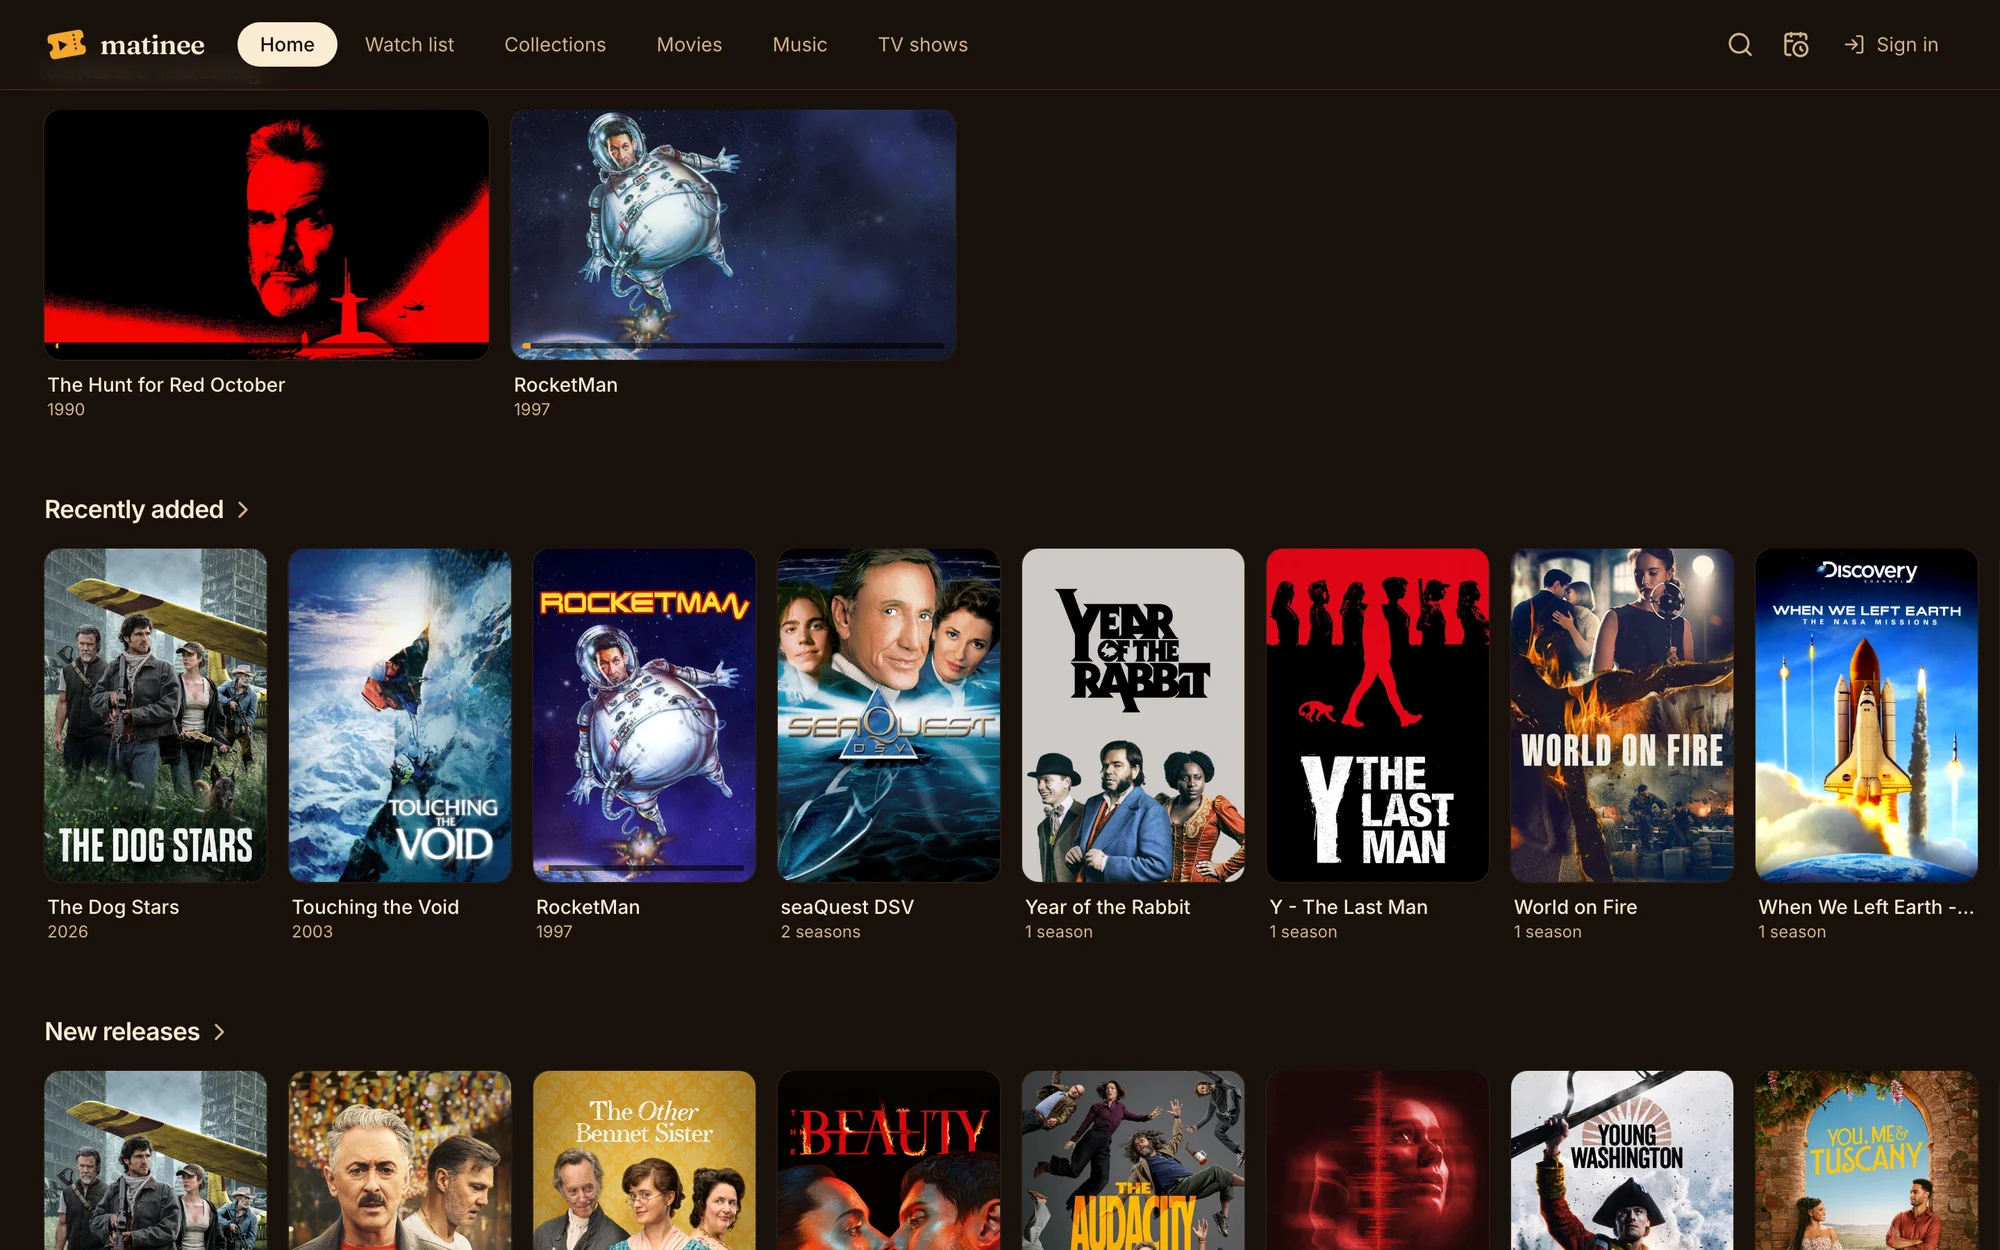
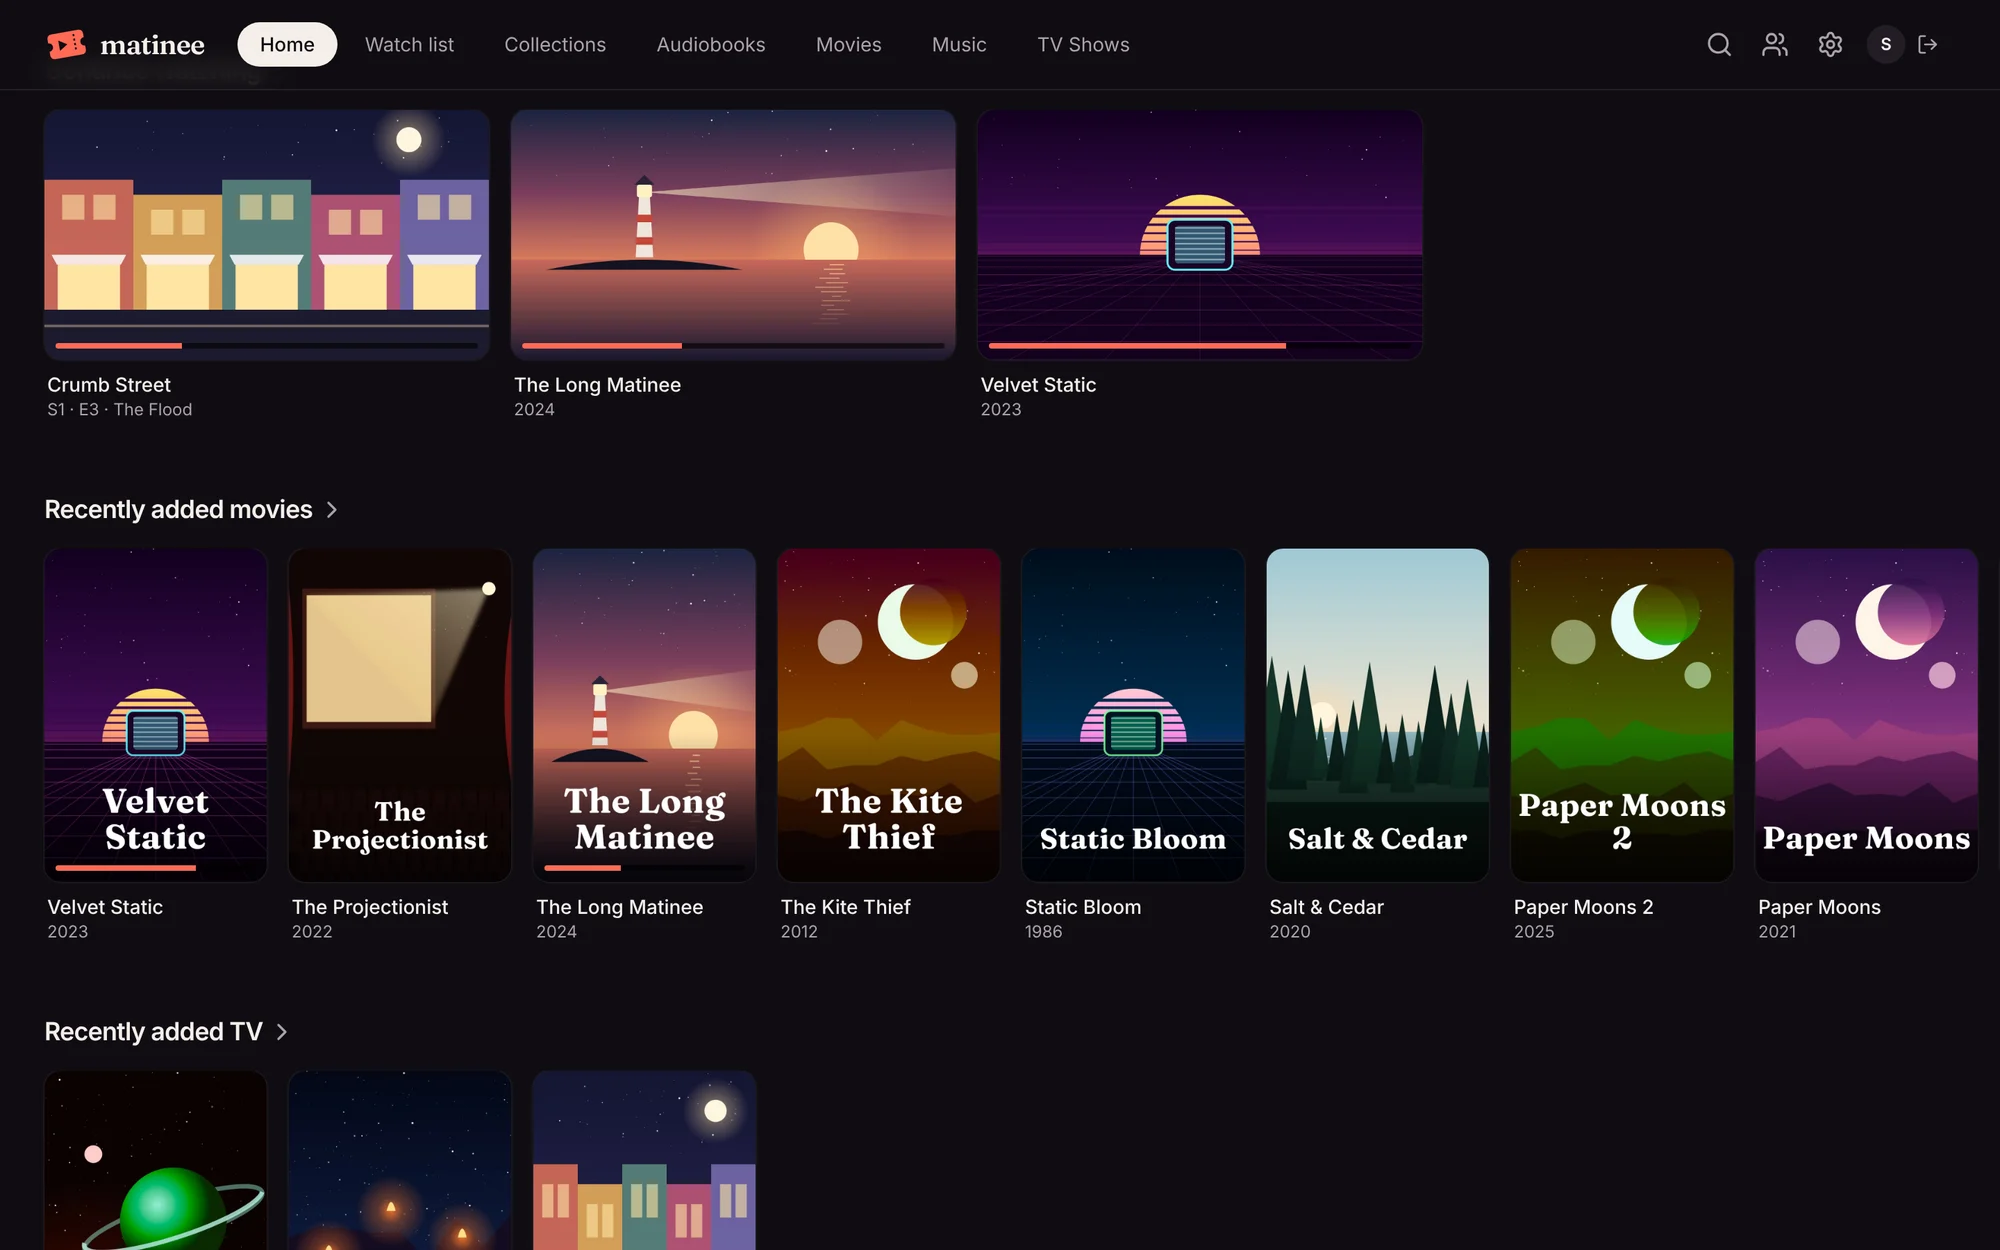
Guide: Home screenshots with Recently added split by kind

diff --git a/docs/guide/watching/home.md b/docs/guide/watching/home.md
@@ -17,7 +17,7 @@ The top of Home features the first thing in your **Continue watching**, with how
 
 Scroll down for rows of posters. Each row scrolls sideways, and a row with a **›** next to its name opens as a full page.
 
-![Further down Home: Continue watching, Recently added and New releases](../images/home-rows.webp)
+![Further down Home: Continue watching, then Recently added movies and Recently added TV](../images/home-rows.webp)
 
 | Row | What's in it |
 | --- | --- |
